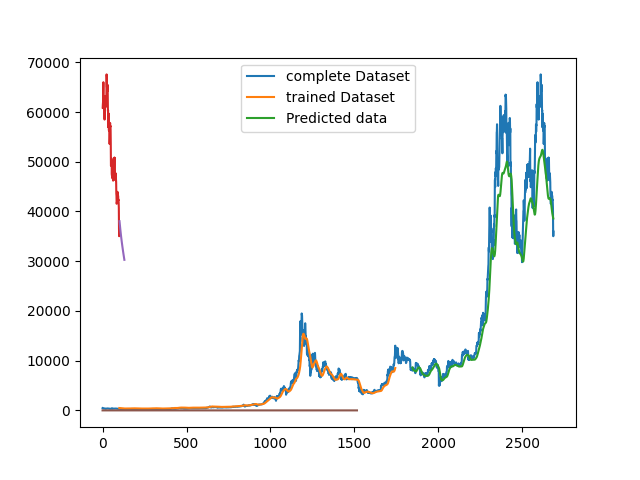
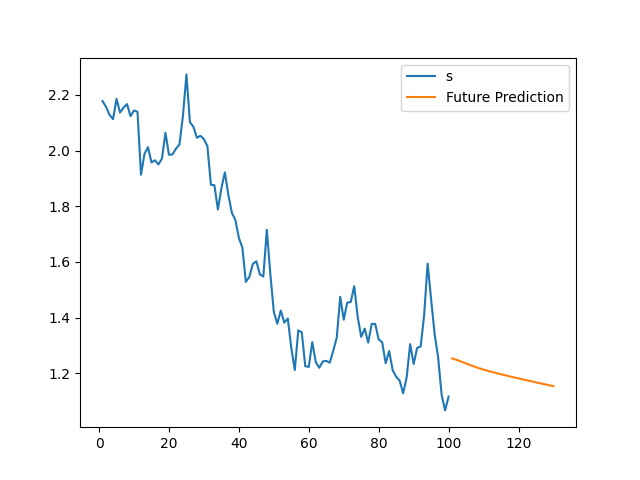
problem solved: plot merging

diff --git a/helper.py b/helper.py
@@ -164,11 +164,10 @@ def predict():
     day_new=np.arange(1,101)
     day_pred=np.arange(101,131)
 
-    plt.plot(day_new,scaler.inverse_transform(df1[len(df1) - n_steps:]))
-    plt.plot(day_pred,scaler.inverse_transform(lst_output))
-    df3=df1.tolist()
-    df3.extend(lst_output)
-    plt.plot(df3[1200:])
+    plt.close()
+    plt.plot(day_new,scaler.inverse_transform(df1[len(df1) - n_steps:]), label="s")
+    plt.plot(day_pred,scaler.inverse_transform(lst_output), label="Future Prediction")
+    plt.legend()
     plt.savefig("files/pic1.png")
     plot = r"files/pic1.png"
 
